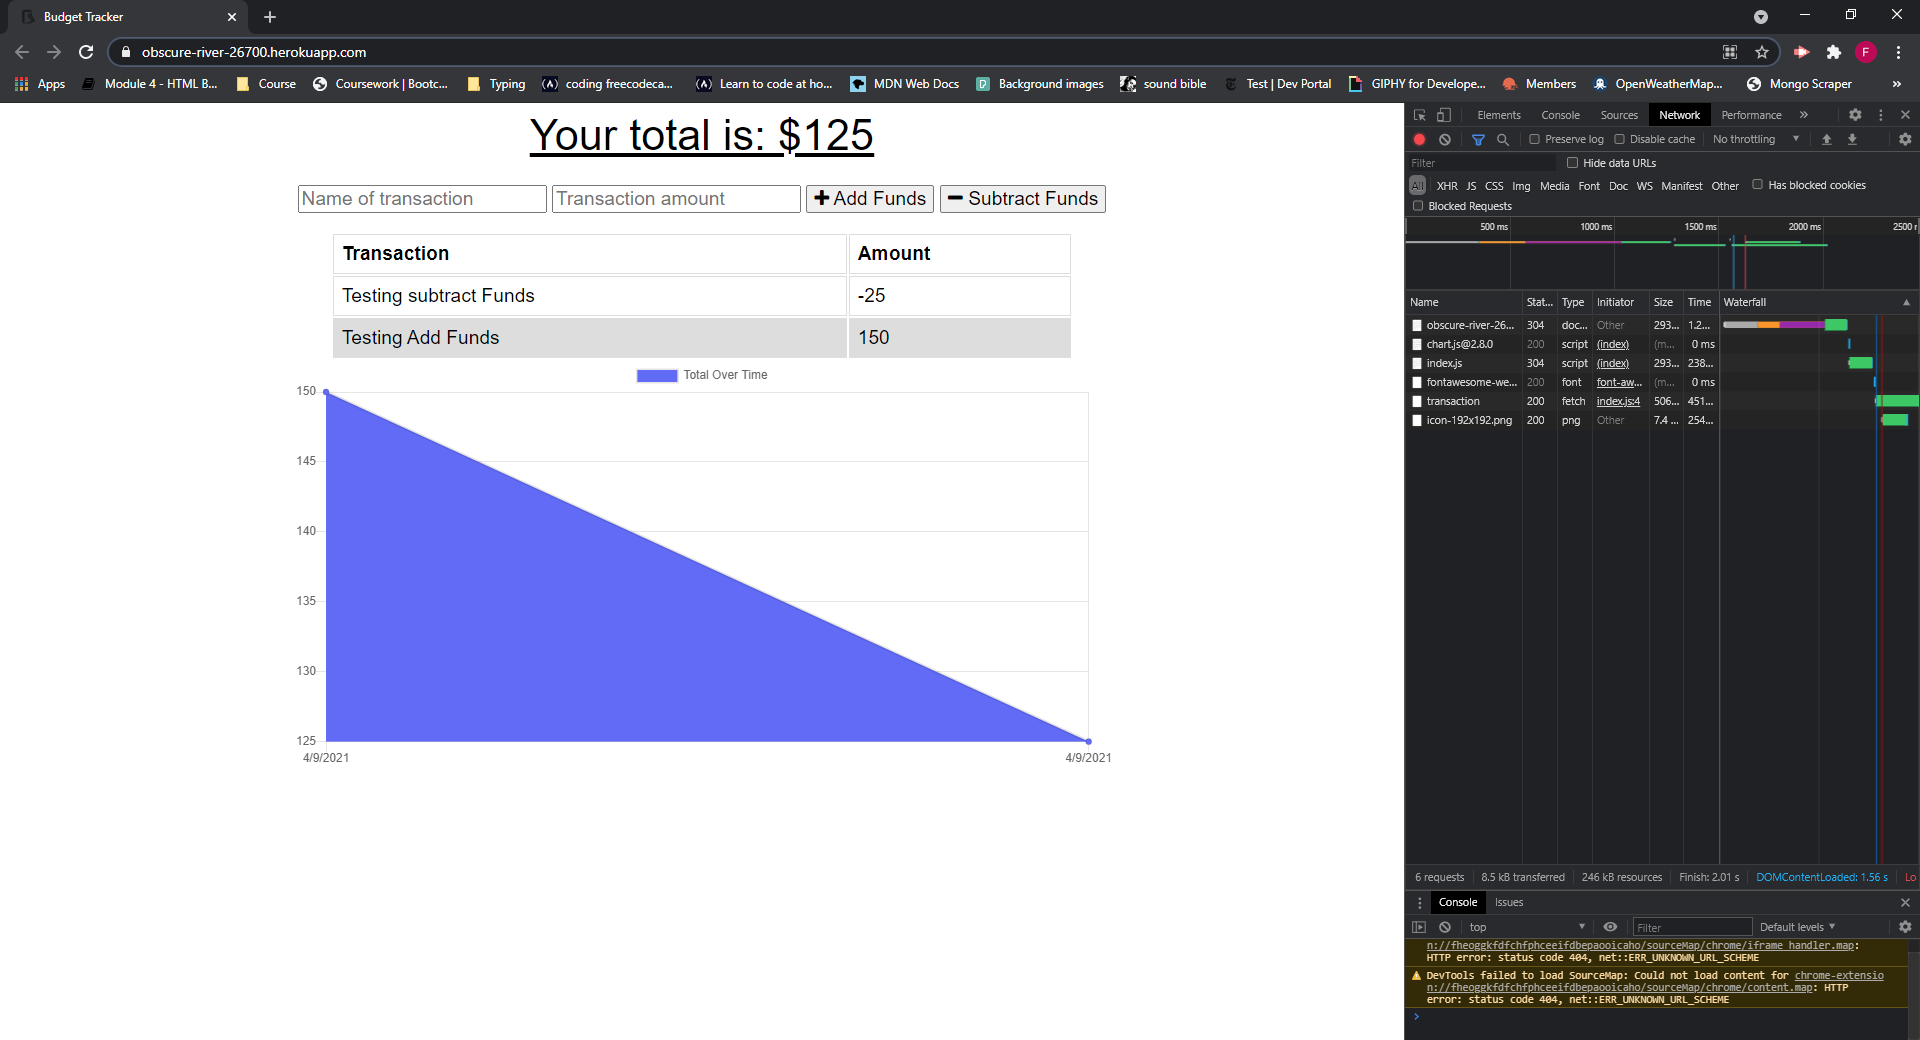
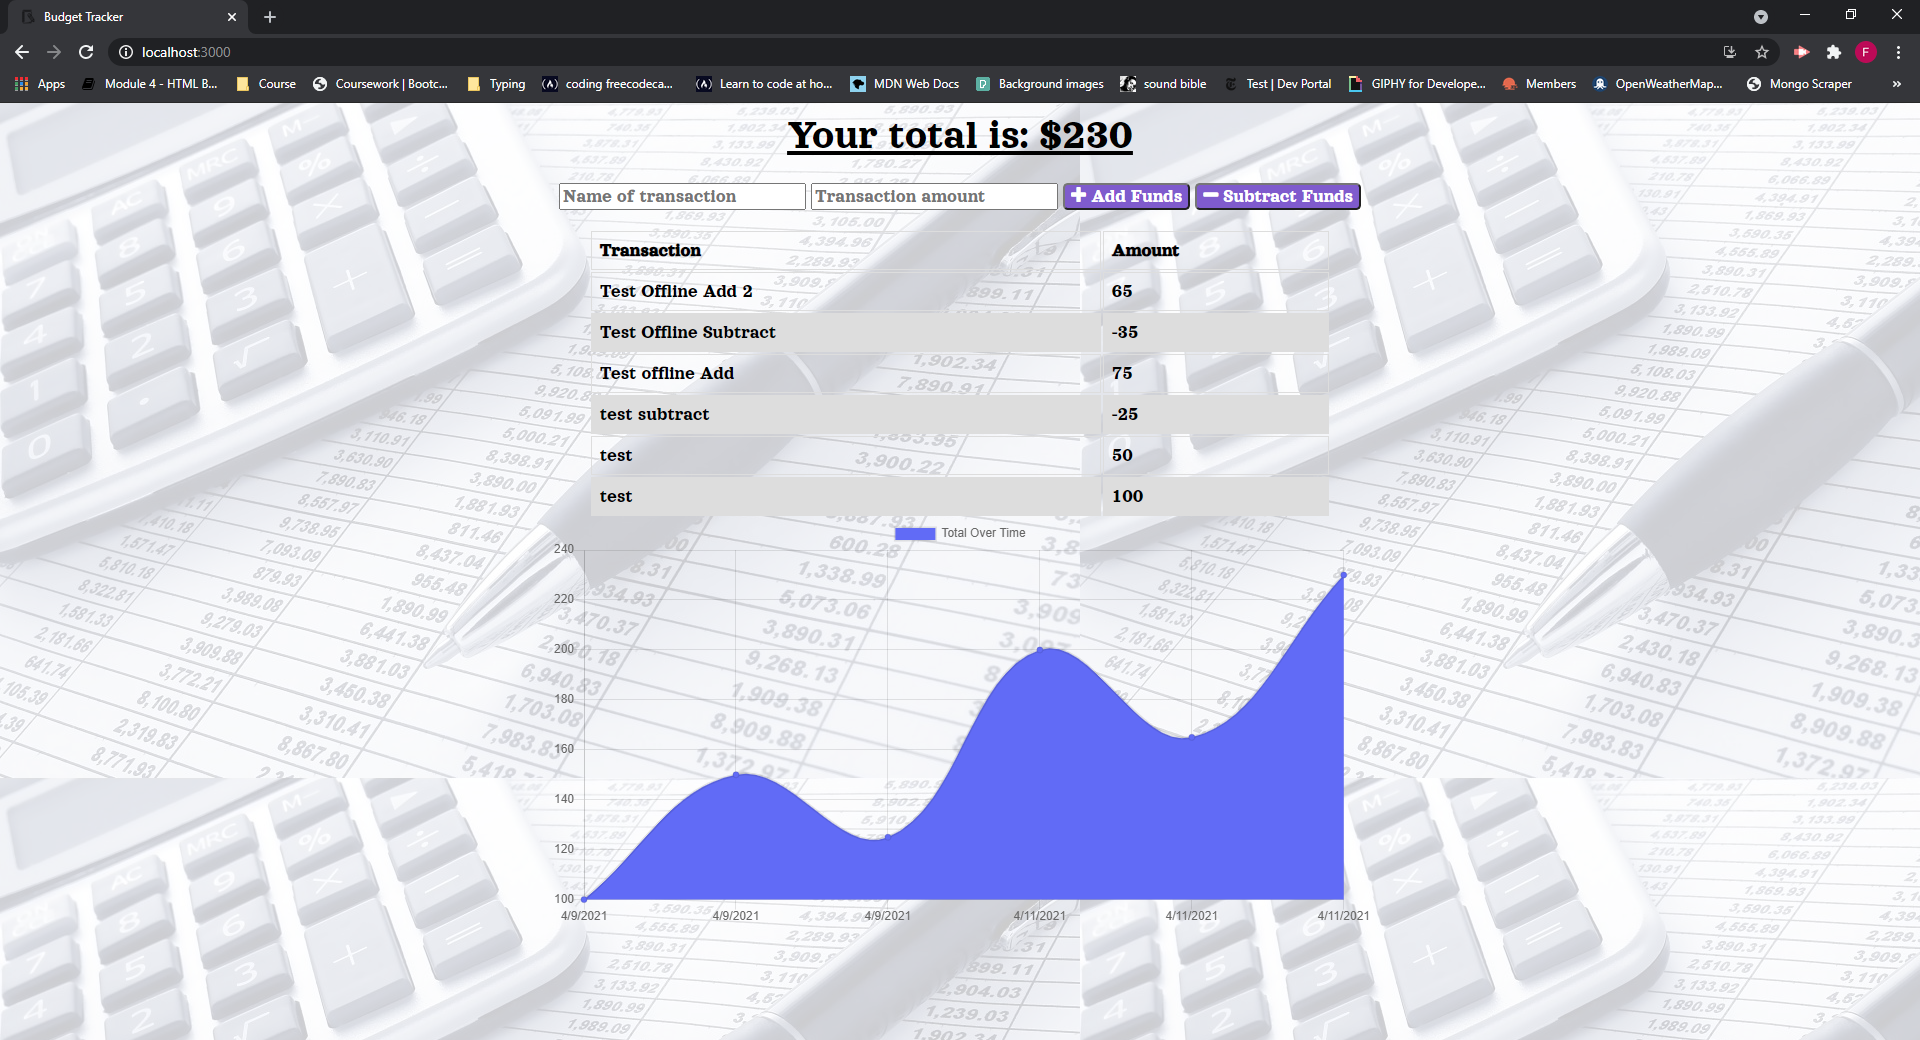
adding styling, updating readme

diff --git a/public/index.html b/public/index.html
@@ -1,58 +1,76 @@
 <!DOCTYPE html>
 <html lang="en">
-<head>
-  <meta charset="UTF-8">
-  <meta name="viewport" content="width=device-width, initial-scale=1.0">
-  <meta http-equiv="X-UA-Compatible" content="ie=edge">
-  <meta name="theme-color" content="#317EFB">
-  <link rel="shortcut icon" href="icons/icon-192x192.png" type="image/x-icon">
+  <head>
+    <meta charset="UTF-8" />
+    <meta name="viewport" content="width=device-width, initial-scale=1.0" />
+    <meta http-equiv="X-UA-Compatible" content="ie=edge" />
+    <meta name="theme-color" content="#317EFB" />
+    <link rel="preconnect" href="https://fonts.gstatic.com" />
+    <link
+      href="https://fonts.googleapis.com/css2?family=Orelega+One&display=swap"
+      rel="stylesheet"
+    />
 
-  <link rel="stylesheet" href="https://stackpath.bootstrapcdn.com/font-awesome/4.7.0/css/font-awesome.min.css">
-  <link rel="stylesheet" href="styles.css">
-    <link rel="stylesheet" href="styles.css">
-  <link rel="manifest" href="manifest.webmanifest" />
-  <title>Budget Tracker</title>
-</head>
-<body>
-  <div class="wrapper">
-    <div class="total">
-      <div class="total">Your total is: $<span id="total">0</span></div>
+    <link
+      rel="shortcut icon"
+      href="icons/icon-192x192.png"
+      type="image/x-icon"
+    />
+
+    <link
+      rel="stylesheet"
+      href="https://stackpath.bootstrapcdn.com/font-awesome/4.7.0/css/font-awesome.min.css"
+    />
+    <link rel="stylesheet" href="styles.css" />
+    <link rel="stylesheet" href="styles.css" />
+    <link rel="manifest" href="manifest.webmanifest" />
+    <title>Budget Tracker</title>
+  </head>
+  <body>
+    <div class="wrapper">
+      <div class="total">
+        <div class="total">Your total is: $<span id="total">0</span></div>
+      </div>
+
+      <div class="form">
+        <input type="text" id="t-name" placeholder="Name of transaction" />
+        <input
+          type="number"
+          min="0"
+          id="t-amount"
+          placeholder="Transaction amount"
+        />
+        <button id="add-btn">
+          <i class="fa fa-plus buttons"></i> Add Funds
+        </button>
+        <button id="sub-btn"><i class="fa fa-minus"></i> Subtract Funds</button>
+        <p class="error"></p>
+      </div>
+
+      <div class="transactions">
+        <table>
+          <thead>
+            <th>Transaction</th>
+            <th>Amount</th>
+          </thead>
+          <tbody id="tbody"></tbody>
+        </table>
+      </div>
+
+      <canvas id="myChart"></canvas>
     </div>
 
-    <div class="form">
-      <input type="text" id="t-name" placeholder="Name of transaction" />
-      <input type="number" min="0" id="t-amount" placeholder="Transaction amount" />
-      <button id="add-btn"><i class="fa fa-plus buttons"></i> Add Funds</button>
-      <button id="sub-btn"><i class="fa fa-minus"></i> Subtract Funds</button>
-      <p class="error"></p>
-    </div>
-
-    <div class="transactions">
-      <table>
-        <thead>
-          <th>Transaction</th>
-          <th>Amount</th>
-        </thead>
-        <tbody id="tbody">
-          
-        </tbody>
-      </table>
-    </div>
-    
-    <canvas id="myChart"></canvas>
-  </div>
-
-  <script src="https://cdn.jsdelivr.net/npm/chart.js@2.8.0"></script>
-  <script src="index.js"></script>
-   <script src="db.js"></script>
-   <script>
-    if ("serviceWorker" in navigator) {
-      window.addEventListener("load", () => {
-        navigator.serviceWorker.register("service-worker.js").then(reg => {
-          console.log("We found your service worker file!", reg);
+    <script src="https://cdn.jsdelivr.net/npm/chart.js@2.8.0"></script>
+    <script src="index.js"></script>
+    <script src="db.js"></script>
+    <script>
+      if ("serviceWorker" in navigator) {
+        window.addEventListener("load", () => {
+          navigator.serviceWorker.register("service-worker.js").then((reg) => {
+            console.log("We found your service worker file!", reg);
+          });
         });
-      });
-    }
-  </script>
-</body>
+      }
+    </script>
+  </body>
 </html>

diff --git a/public/styles.css b/public/styles.css
@@ -1,18 +1,51 @@
-body {
-  font-size: 120%;
-  font-family: Arial;
+html {
+  font-family: "Orelega One", cursive;
 }
 
-button, input {
+body {
+  font-family: "Orelega One", cursive;
+  font-size: 120%;
+  /* font-family: Arial; */
+  /* background-image: url("img/budgetbackground.jpg");
+  opacity: 0.5; */
+  background: linear-gradient(
+      rgba(255, 255, 255, 0.8),
+      rgba(255, 255, 255, 0.8)
+    ),
+    url("img/budgetbackground.jpg");
+}
+/* html::after {
+  content: "";
+  background-image: url("img/budgetbackground.jpg");
+  opacity: 0.5;
+  top: 0;
+  left: 0;
+  bottom: 0;
+  right: 0;
+  position: absolute;
+  z-index: -1;
+  height: auto;
+} */
+button {
+  /* background: rgb(93, 93, 238); */
+  background: rgb(132, 88, 212);
+  color: white;
+  border-radius: 5px;
+}
+
+button,
+input {
   font-size: 100%;
-  font-family: Arial;
+  /* font-family: Arial; */
+  font-family: "Orelega One", cursive;
 }
 
 table {
   width: 100%;
 }
 
-td, th {
+td,
+th {
   border: 1px solid #dddddd;
   text-align: left;
   padding: 8px;

diff --git a/public/service-worker.js b/public/service-worker.js
@@ -8,6 +8,7 @@ const FILES_TO_CACHE = [
 
   "/icons/icon-192x192.png",
   "/icons/icon-512x512.png",
+  "/img/budgetBackground.jpg",
 ];
 
 const CACHE_NAME = "static-cache-v2";

diff --git a/README.md b/README.md
@@ -35,8 +35,7 @@ When brought back online:
 ## Screenshots
 
 ![Example screenshot](https://raw.githubusercontent.com/FraserClarke/Budget-Tracker/main/public/img/budget1.PNG)
-![Example screenshot](https://raw.githubusercontent.com/FraserClarke/Budget-Tracker/main/public/img/budget2.PNG)
-![Example screenshot](https://raw.githubusercontent.com/FraserClarke/Budget-Tracker/main/public/img/budget3.PNG)
+![Example screenshot](https://raw.githubusercontent.com/FraserClarke/Budget-Tracker/main/public/img/budgetGif.GIF)
 
 ## General info
 
@@ -71,3 +70,4 @@ Giving users a fast and easy way to track their money is important, but allowing
 ## Credits
 
 - Created by: [Fraser Clarke](https://github.com/FraserClarke)
+- Image Source: [Click Here](https://sunstatestrata.com.au/wp-content/uploads/2017/06/Budget2-1080x675.jpg)
